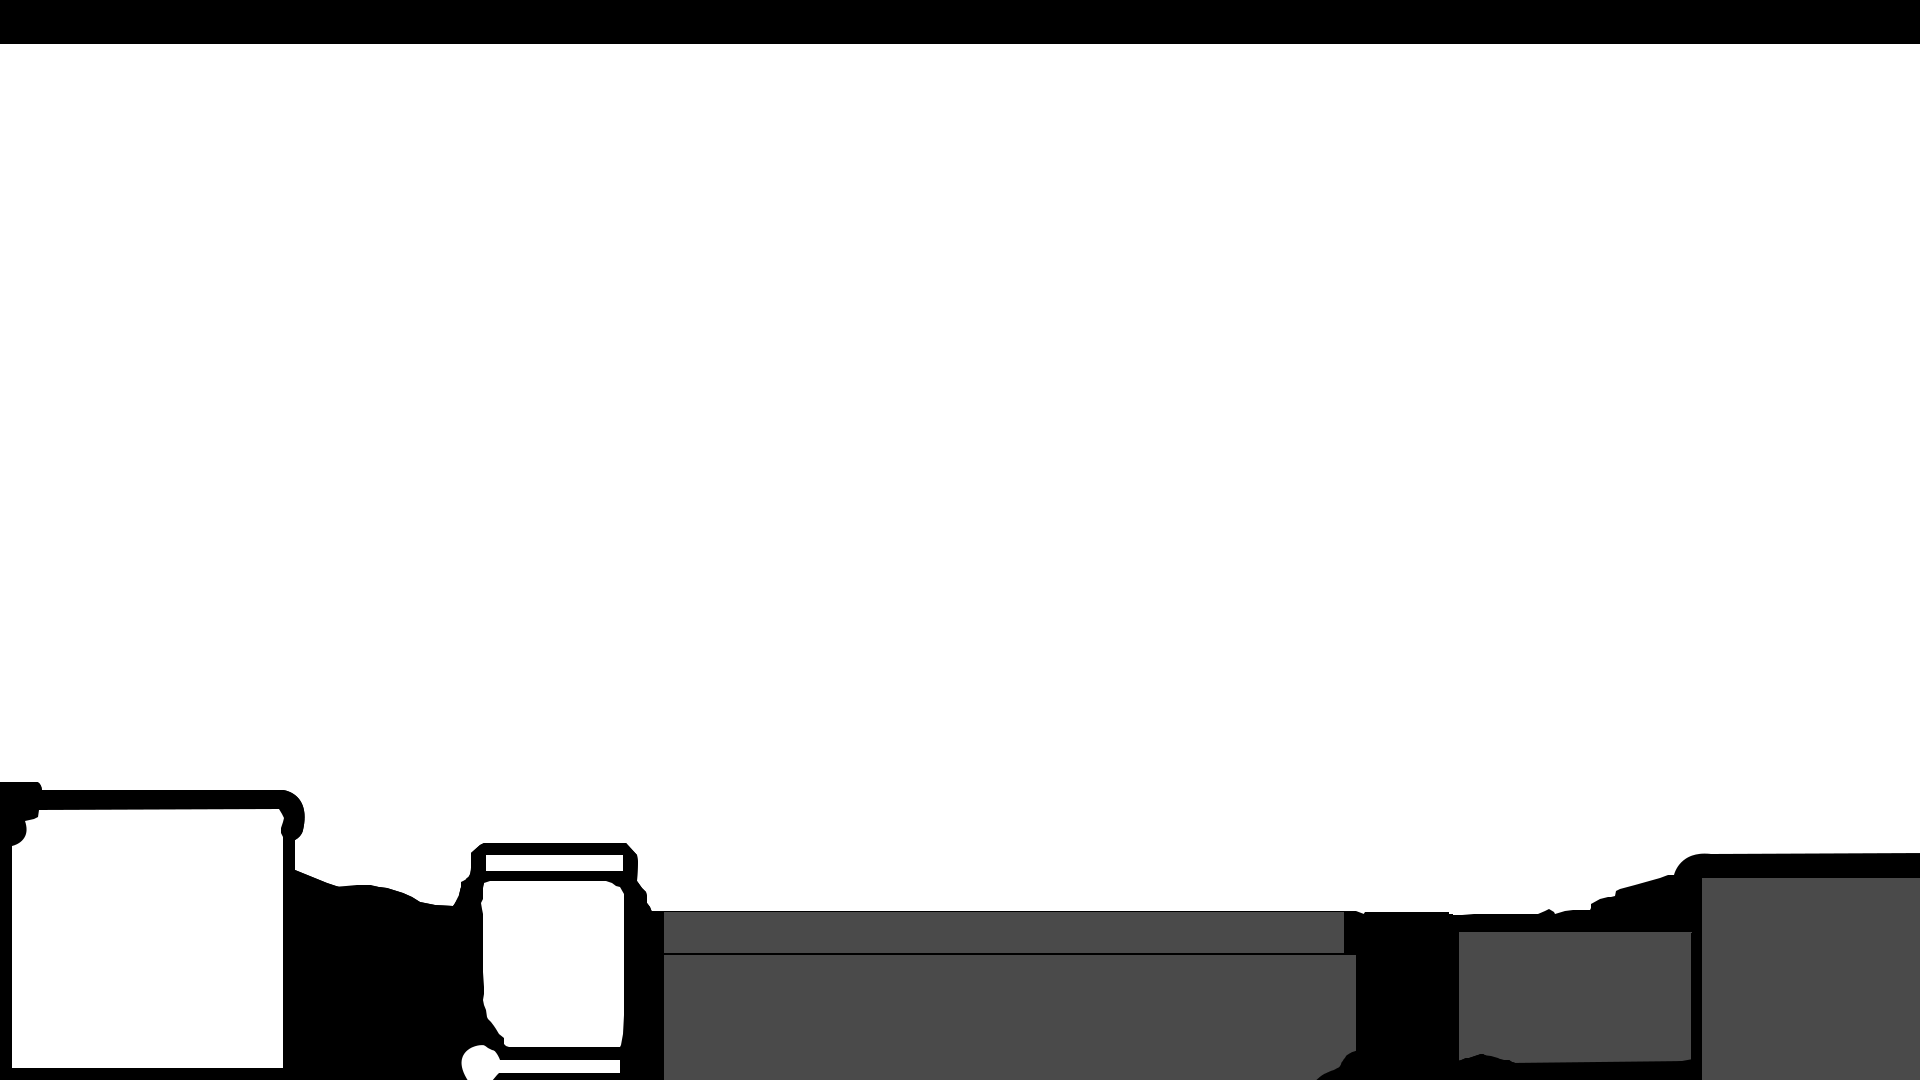
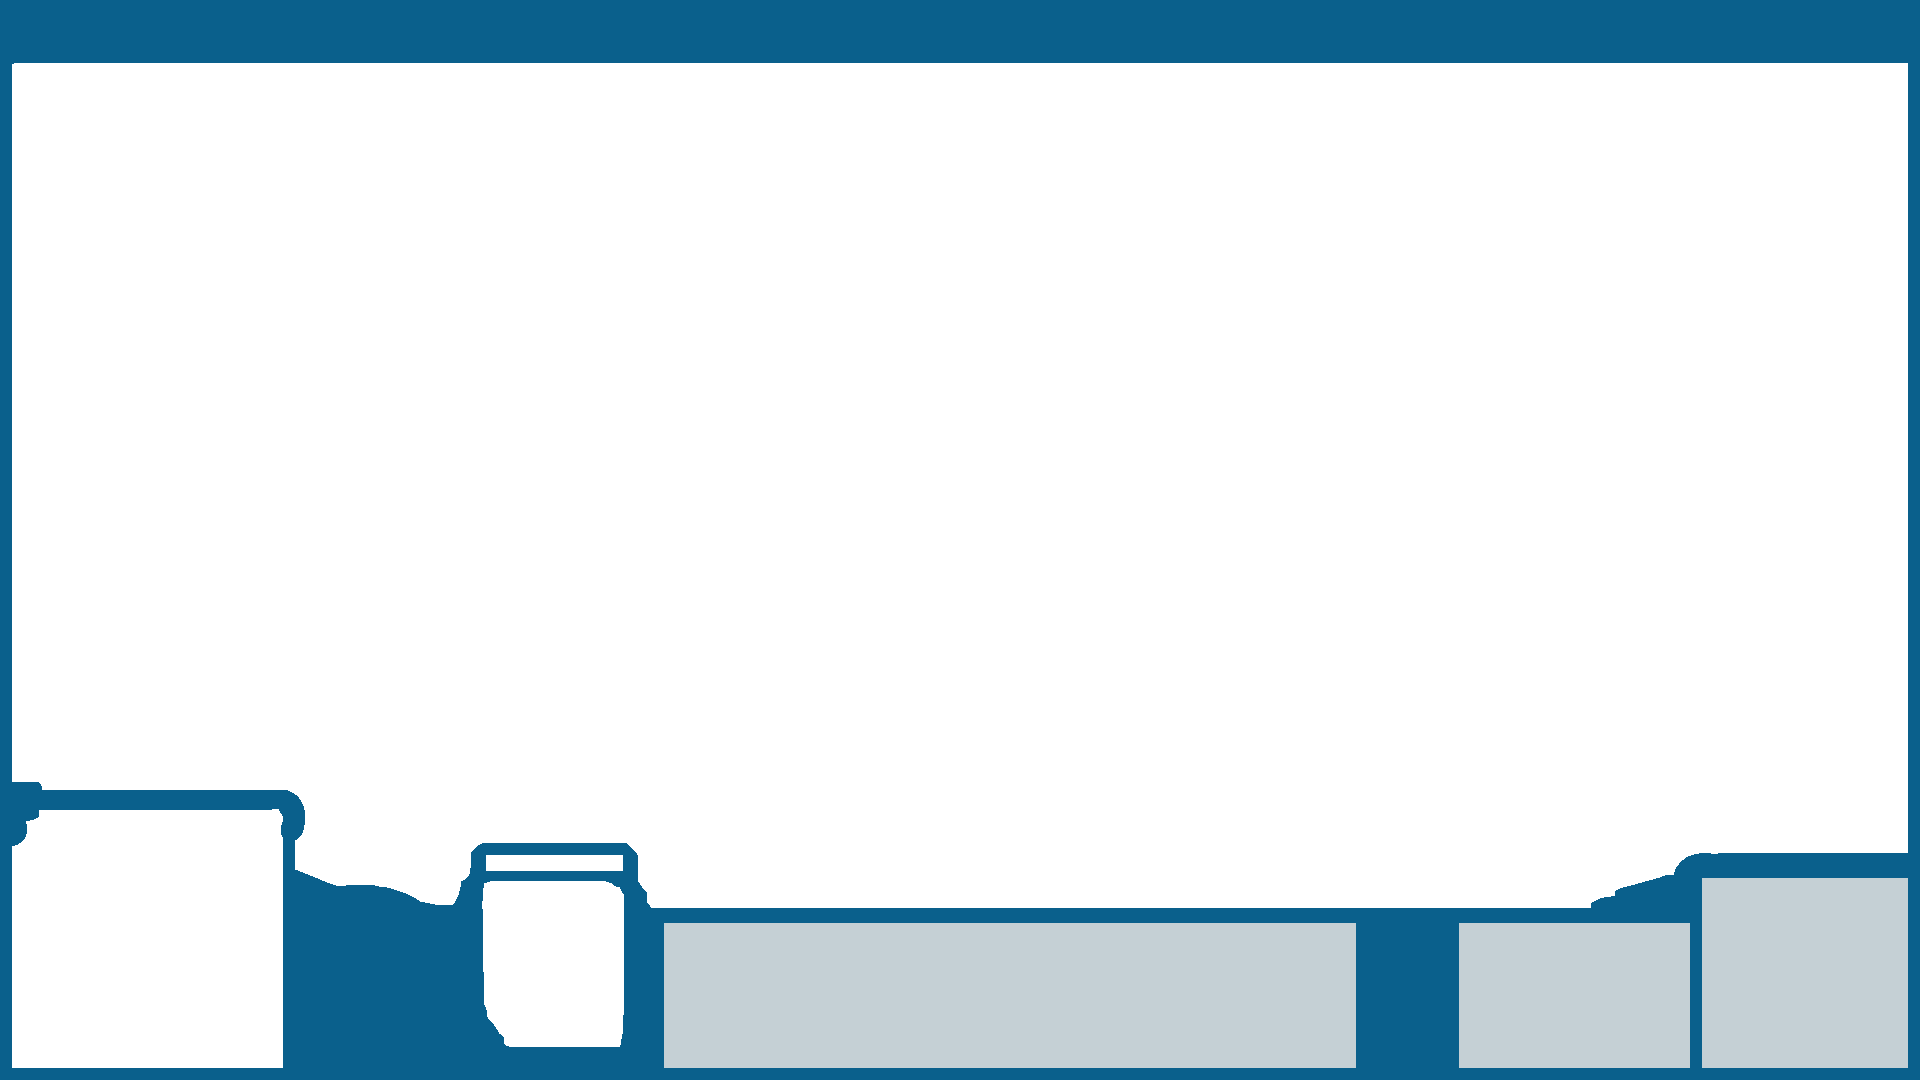
HUD update

Changed region(s): [[0.0, 0.0, 1.0, 1.0]]

diff --git a/Xi0nGUI/src/view/Xi0nSimulation.java b/Xi0nGUI/src/view/Xi0nSimulation.java
@@ -38,7 +38,7 @@ public class Xi0nSimulation implements ApplicationListener {
         this.stage.addActor(new StartButton(30, 30).getButton());
         this.stage.addActor(new PauseButton(30, 80).getButton());
         this.stage.addActor(new RestartButton(30, 130).getButton());
-        this.stage.addActor(new QuitButton(30, 180).getButton());
+        this.stage.addActor(new QuitButton(1860, 1025).getButton());
 	}
 
 	@Override
@@ -65,10 +65,10 @@ public class Xi0nSimulation implements ApplicationListener {
 		this.sr.setProjectionMatrix(this.camera.combined);
 		this.room.render(this.sr);
 		this.sr.end();
-		this.stage.draw();
 		this.batch.begin();
 		this.batch.draw(this.bar, 0, 0);
 		this.batch.end();
+		this.stage.draw();
 	}
 
 	@Override
